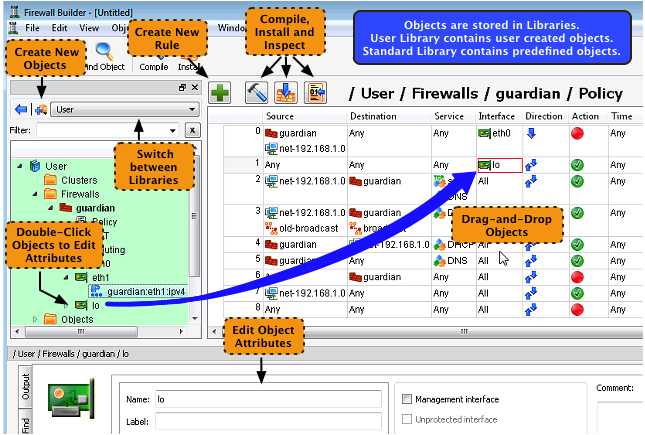
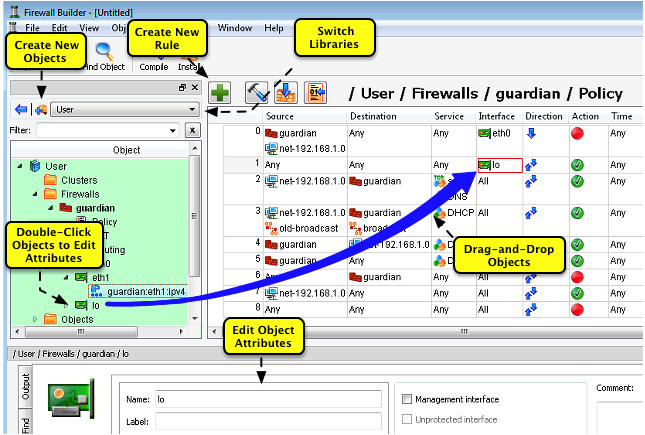
fixed #1748 dialog includes nice screenshot and formatting looks ok

diff --git a/src/gui/ObjectManipulator_create_new.cpp b/src/gui/ObjectManipulator_create_new.cpp
@@ -807,11 +807,14 @@ void ObjectManipulator::reminderAboutStandardLib()
     QMessageBox::information(
         this,"Firewall Builder",
         QObject::tr(
-            "Did you know that Firewall Builder comes with a library "
-            "of standard address and service objects that includes over "
-            "a hunderd of often used protocols and services? You can "
+            "<img src=\":/Images/library_switch_screenshot.png\"/>"
+            " <br/>"
+            "<hr/>"
+            " <br/>"
+            "Did you know that Firewall Builder comes with over a hunderd "
+            "standard address and service objects that represent "
+            "often used protocols and services? You can "
             "find them in the object library \"Standard\"."
-            "<img src=\":/Images/library_switch_screenshot.png\">"
         ));
 }
 
